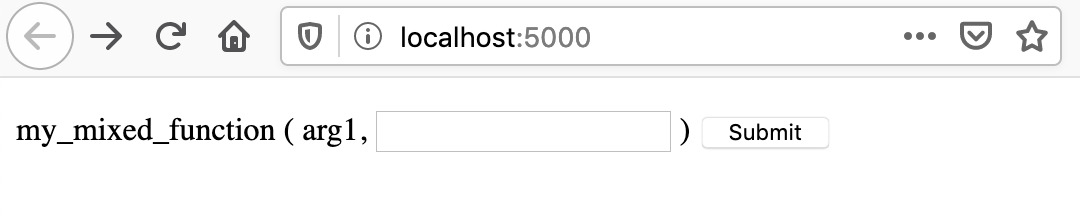
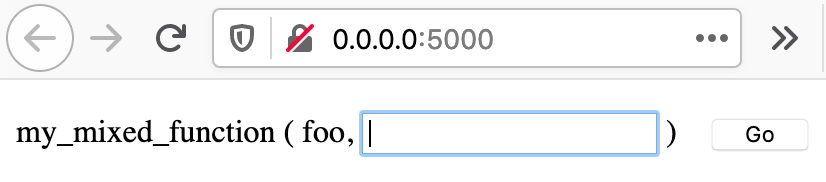
Updated wiki images

diff --git a/tests/autowiki.py b/tests/autowiki.py
@@ -29,17 +29,19 @@ page_dict = {
     '1' : [{'func' : my_function, 'args' : [], 'kwargs' : {}}],
     '2' : [{'func' : my_live_function, 'args' : [],
             'kwargs' : {'live' : True}}],
-    '3' : [{'func' : my_mixed_function, 'args' : ['arg1'],
-            'kwargs' : {'kwarg1' : True, 'live' : True}}],
+    '3' : [{'func' : my_mixed_function, 'args' : ['foo'],
+            'kwargs' : {'kwarg1' : 'foobar', 'live' : True}}],
     '4' : [{'func' : my_typed_function, 'args' : [],
             'kwargs' : {'live' : True, 'typed' : True}}]
     }
+
+autofront.initialize()
 
 for func_dict in page_dict[page]:
     function = func_dict['func']
     args = func_dict['args']
     kwargs = func_dict['kwargs']
-autofront.create_route(function, *args, **kwargs)
+    autofront.create_route(function, *args, **kwargs)
 
 autofront.run()
 
